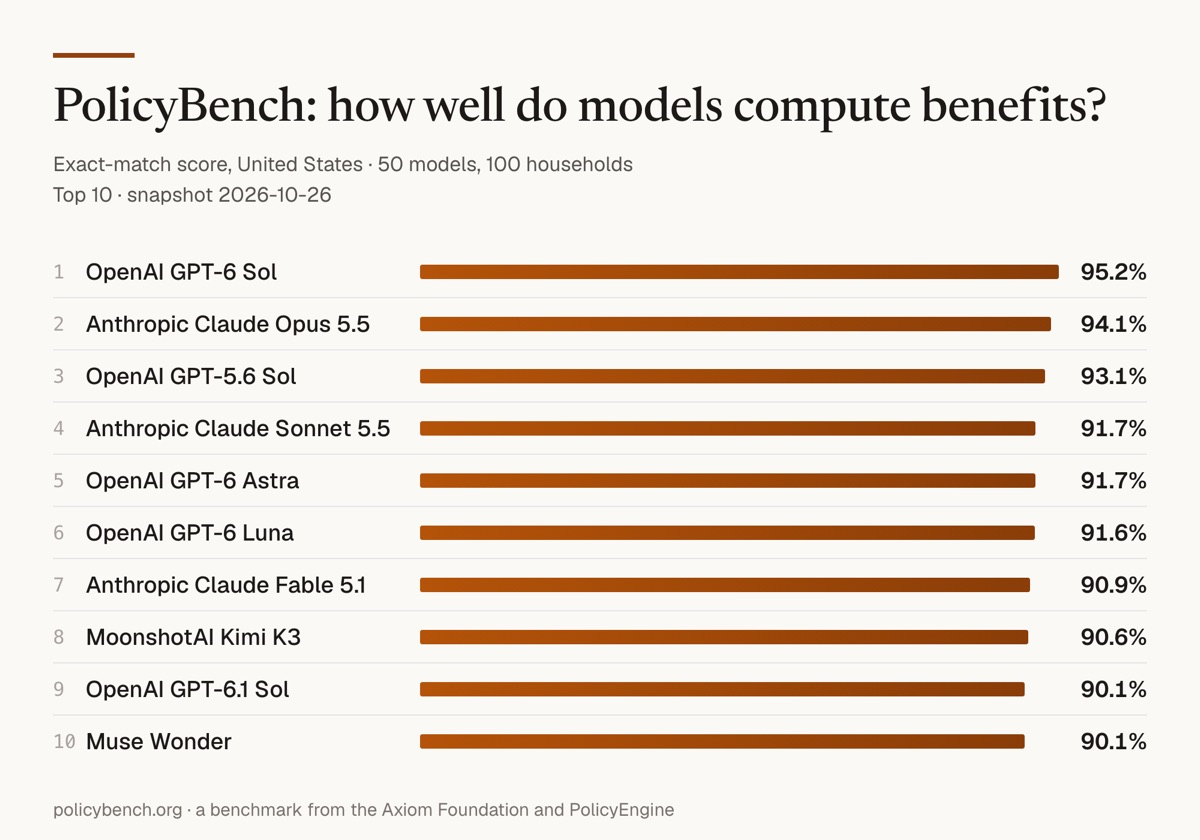
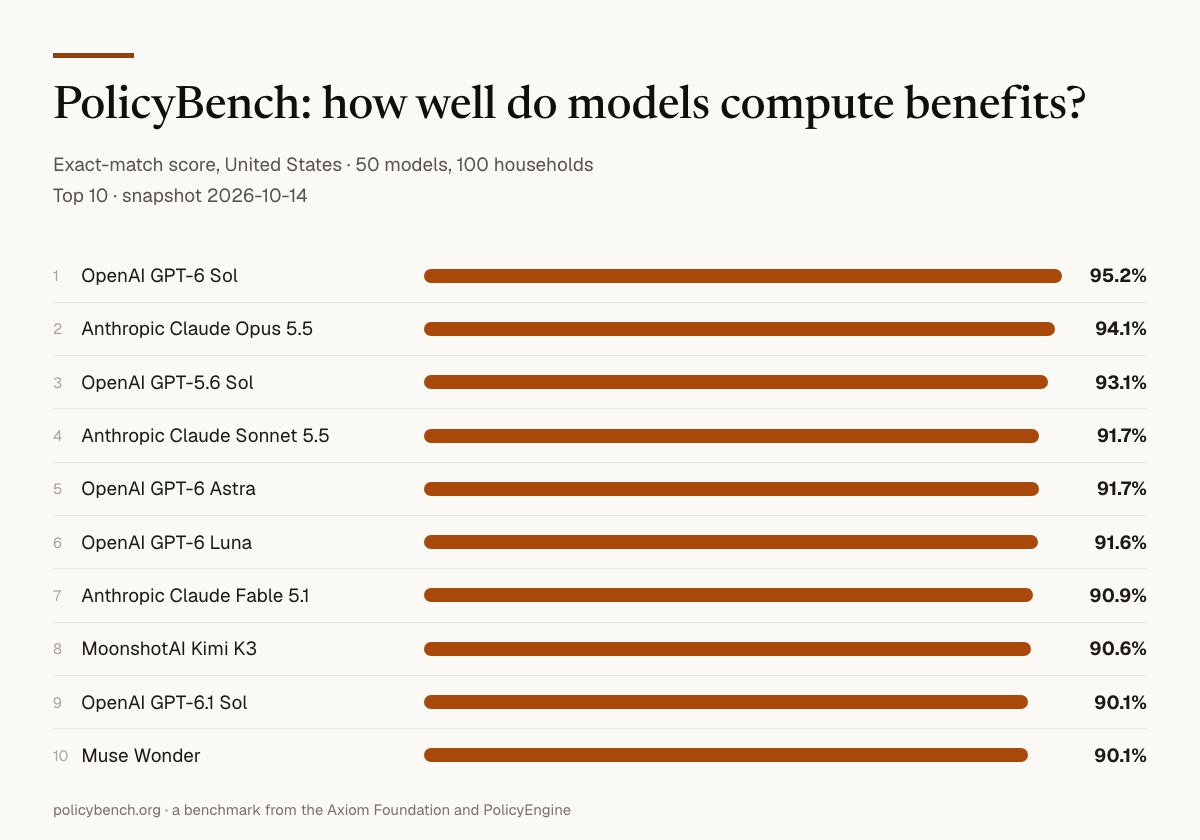
Nº 002: add Upcoming with Max's APPAM panel (#13)
* Add Upcoming: Max's APPAM panel in Boston

Confirmed in APPAM's own online program: "State Policy Impacts on Family
Resources: Tools to Improve Policy Analysis," Thursday 5 November,
10:15-11:45, Marriott Copley Place. It is his only session in the program.

* Add Ariel's Cornell Tech panel and Max's JRC Seville session

Recent: the Cornell Tech PiTech Showcase, 23 October, where Ariel moderated
"Putting Tech into Practice at NYC Agencies." Sourced from Cornell's public
showcase page; the panelists' agencies are named, the individuals are not.

Upcoming: "Building blocks for future economic analysis and modelling: the
role of AI," JRC, Seville, 23-24 November. Max is listed in the "Agents and
economic modelling" session, Monday 11:00-12:30 CET.

* Add the graph preview as a second product item

Checked against the live app: opening a rule draws its graph immediately,
with a built-from / used-by panel, entity, unit, period, verification status
and citation, and links out to the encoding, the formula and the law.

* Point the feature CTA at the primary announcement

"Read the announcement" now opens Center for Civic Futures' 22 October post,
which is the actual cohort announcement; PBIF's own site has not published
one. The press-release card above it still links our blog post, so both
destinations stay one click away.

* Close the Aspen bullet on the shared foundation

Name the point the session was making: cited, executable rules are one
[…]

diff --git a/editions/2026-10-29.html b/editions/2026-10-29.html
@@ -67,7 +67,7 @@
                             <table cellpadding="0" cellspacing="0" style="margin: 4px 0 24px 0;">
                                 <tr>
                                     <td align="center" style="background-color: #b45309; border-radius: 6px;">
-                                        <a href="https://axiom.org/blog/pbif-spring-2026-cohort" style="display: inline-block; padding: 14px 28px; font-family: 'Geist', -apple-system, BlinkMacSystemFont, 'Segoe UI', sans-serif; font-size: 15px; font-weight: 600; letter-spacing: 0.01em; color: #ffffff; text-decoration: none;">
+                                        <a href="https://www.centerforcivicfutures.org/resources/center-for-civic-futures-awards-11-million-to-tackle-the-toughest-barriers-in-safety-net-delivery-with-ai" style="display: inline-block; padding: 14px 28px; font-family: 'Geist', -apple-system, BlinkMacSystemFont, 'Segoe UI', sans-serif; font-size: 15px; font-weight: 600; letter-spacing: 0.01em; color: #ffffff; text-decoration: none;">
                                             Read the announcement &rarr;
                                         </a>
                                     </td>
@@ -84,9 +84,9 @@
                                             Benchmark snapshot
                                         </div>
                                         <div style="font-size: 17px; font-weight: 700; color: #1c1917; line-height: 1.4; letter-spacing: -0.01em; margin-bottom: 12px;"><a href="https://policybench.org/" style="color: #1c1917; text-decoration: none;">GPT-6 Sol takes the lead</a></div>
-                                        <a href="https://policybench.org/" style="text-decoration: none;"><img src="https://raw.githubusercontent.com/TheAxiomFoundation/newsletters/main/assets/images/2026-10-29-policybench-leaderboard.jpg" alt="PolicyBench leaderboard, top 10 of 50 models by exact-match score on United States household tax and benefit calculations, snapshot October 26 2026. OpenAI GPT-6 Sol leads at 95.2 percent, Claude Opus 5.5 94.1, GPT-5.6 Sol 93.1, down to Muse Wonder at 90.1 percent." width="512" style="width: 100%; max-width: 512px; height: auto; display: block; border-radius: 4px; border: 1px solid #e7e5e4;"></a>
+                                        <a href="https://policybench.org/" style="text-decoration: none;"><img src="https://raw.githubusercontent.com/TheAxiomFoundation/newsletters/main/assets/images/2026-10-29-policybench-leaderboard.jpg" alt="PolicyBench leaderboard, top 10 of 50 models by exact-match score on United States household tax and benefit calculations, snapshot October 14 2026. OpenAI GPT-6 Sol leads at 95.2 percent, Claude Opus 5.5 94.1, GPT-5.6 Sol 93.1, down to Muse Wonder at 90.1 percent." width="512" style="width: 100%; max-width: 512px; height: auto; display: block; border-radius: 4px; border: 1px solid #e7e5e4;"></a>
                                         <div style="font-size: 14px; line-height: 1.6; color: #44403c; padding-top: 12px;">
-                                            PolicyBench is an open benchmark from the Axiom Foundation and PolicyEngine, scoring 50 models on United States household tax and benefit calculations. GPT-6 Sol leads at 95.2 percent of sampled households answered to within a dollar, and every model in the top ten now clears 90 percent, where a month ago only the leader cleared 88. The board also turned on itself this autumn: we <a href="https://policybench.org/notes/2026-09-22-reference-audit" style="color: #b45309; text-decoration: none;">audited the answer key against the law</a>, using the models&rsquo; misses to find bugs in our own reference engine. <a href="https://policybench.org/" style="color: #b45309; text-decoration: none;">See the full board &rarr;</a>
+                                            PolicyBench is an open benchmark from the Axiom Foundation and PolicyEngine, scoring 50 models on United States household tax and benefit calculations. GPT-6 Sol leads at 95.2 percent of sampled households answered to within a dollar, and every model in the top ten now clears 90 percent, where a month ago only the leader cleared 88. We also <a href="https://policybench.org/notes/2026-09-22-reference-audit" style="color: #b45309; text-decoration: none;">audited the answer key against the law</a> this autumn, using the models&rsquo; misses to find bugs in our own reference engine. <a href="https://policybench.org/" style="color: #b45309; text-decoration: none;">See the full board &rarr;</a>
                                         </div>
                                     </td>
                                 </tr>
@@ -103,8 +103,13 @@
                                 </tr>
                             </table>
                             <p style="margin: 0 0 18px 0; font-size: 15px; line-height: 1.65; color: #44403c;">
-                                <a href="https://axiom.org/app" style="color: #b45309; text-decoration: none;">The Axiom App</a> now opens on a map, with every state shaded by how many provisions we have encoded there and a chip above it for federal law. The jurisdictions too small to shade get their own labels, so Washington, D.C. and Rhode Island are as easy to reach as Texas, and the shading tells you where the corpus runs deep before you search.
+                                <a href="https://axiom.org/app" style="color: #b45309; text-decoration: none;">The Axiom App</a> now opens on a map, with every state shaded by how many provisions we have encoded there and a button above it for federal law. We label the jurisdictions too small to shade, so Washington, D.C. and Rhode Island are as easy to reach as Texas.
                             </p>
+                            <h3 style="margin: 6px 0 12px 0; font-size: 17px; font-weight: 700; color: #1c1917; line-height: 1.4; letter-spacing: -0.01em;">A graph for every policy</h3>
+                            <p style="margin: 0 0 18px 0; font-size: 15px; line-height: 1.65; color: #44403c;">
+                                Open any rule and the app now draws its graph: the values the rule is built from, and what uses it in turn. A panel beside it gives the unit, the period and the citation the rule came from. Every node links out to its encoding, its formula and the text of the law.
+                            </p>
+
                             
                             <table width="100%" cellpadding="0" cellspacing="0" style="margin: 4px 0 18px 0; background-color: #f5f2ec; border: 1px solid #e7e5e4; border-left: 3px solid #b45309; border-radius: 4px;">
                                 <tr><td style="padding: 18px 20px;">
@@ -116,12 +121,19 @@
                             <h2 style="margin: 34px 0 12px 0; font-size: 19px; font-weight: 700; color: #1c1917; letter-spacing: -0.015em;"><span style="display: inline-block; font-family: 'Geist Mono','SFMono-Regular',Menlo,Consolas,monospace; font-size: 10px; letter-spacing: 0.08em; text-transform: uppercase; color: #b45309; border: 1px solid #d9b28a; border-radius: 3px; padding: 3px 7px; margin-bottom: 10px;">events</span><br>Presentations and events</h2>
                             <div style="font-family: 'Geist Mono','SFMono-Regular',Menlo,Consolas,monospace; font-size: 10px; letter-spacing: 0.09em; text-transform: uppercase; color: #57534e; margin: 22px 0 10px 0;">Recent</div>
                             <table width="100%" cellpadding="0" cellspacing="0" style="margin: 4px 0 12px 0;">
-                                <tr><td valign="top" style="width: 16px; padding: 0 0 12px 0; color: #b45309; font-size: 15px; line-height: 1.65;">&bull;</td><td style="padding: 0 0 12px 0; font-size: 15px; line-height: 1.65; color: #44403c;"><strong style="color: #1c1917;"><a href="https://www.racguild.org/events" style="color: #b45309; text-decoration: none;">Rules as Code Guild Townhall #26</a>, October 7. We demoed Axiom.</strong> The Guild runs these monthly for people working on rules as code across disciplines. Watch the <a href="https://www.youtube.com/watch?v=wQBg_jzW_rs" style="color: #b45309; text-decoration: none;">recording</a> and read the <a href="https://axiom.org/slides/rac-guild-2026" style="color: #b45309; text-decoration: none;">slides</a>.</td></tr>
+                                <tr><td valign="top" style="width: 16px; padding: 0 0 12px 0; color: #b45309; font-size: 15px; line-height: 1.65;">&bull;</td><td style="padding: 0 0 12px 0; font-size: 15px; line-height: 1.65; color: #44403c;"><strong style="color: #1c1917;"><a href="https://www.racguild.org/events" style="color: #b45309; text-decoration: none;">Rules as Code Guild Townhall #26</a>, October 7.</strong> We demoed the Axiom App. The Guild meets monthly and draws people working on rules as code across disciplines and around the world. Watch the <a href="https://www.youtube.com/watch?v=wQBg_jzW_rs" style="color: #b45309; text-decoration: none;">recording</a> and read the <a href="https://axiom.org/slides/rac-guild-2026" style="color: #b45309; text-decoration: none;">slides</a>.</td></tr>
                                 
                                 <tr><td valign="top" style="width: 16px; padding: 0 0 12px 0; color: #b45309; font-size: 15px; line-height: 1.65;">&bull;</td><td style="padding: 0 0 12px 0; font-size: 15px; line-height: 1.65; color: #44403c;"><strong style="color: #1c1917;"><a href="https://www.navapbc.com/events/open-source-summit-ai-futures" style="color: #b45309; text-decoration: none;">Open Source Summit: AI Futures</a>, Baltimore, October 14.</strong> Max gave a lightning talk on how accurate AI is at benefits calculations, at Nava&rsquo;s day of demos, lightning talks and panels in the Baltimore Museum of Art.</td></tr>
                                 <tr><td valign="top" style="width: 16px; padding: 0 0 12px 0; color: #b45309; font-size: 15px; line-height: 1.65;">&bull;</td><td style="padding: 0 0 12px 0; font-size: 15px; line-height: 1.65; color: #44403c;"><strong style="color: #1c1917;"><a href="https://innovate-us.org/benefits-access-and-delivery-using-ai-to-expand-reach-simply-systems-and-improve-integrity" style="color: #b45309; text-decoration: none;">Benefits Access and Delivery</a>, InnovateUS, October 22.</strong> Ariel joined Dr. Alister Martin, Commissioner of the New York City Department of Health and Mental Hygiene, for the third session of the AI in Public Health series. 187 public professionals attended, and both the <a href="https://innovate-us.org/benefits-access-and-delivery-using-ai-to-expand-reach-simply-systems-and-improve-integrity" style="color: #b45309; text-decoration: none;">recording</a> and our <a href="https://axiom.org/slides/innovateus-2026-10" style="color: #b45309; text-decoration: none;">slides</a> are posted.</td></tr>
+                                <tr><td valign="top" style="width: 16px; padding: 0 0 12px 0; color: #b45309; font-size: 15px; line-height: 1.65;">&bull;</td><td style="padding: 0 0 12px 0; font-size: 15px; line-height: 1.65; color: #44403c;"><strong style="color: #1c1917;"><a href="https://www.pi.tech.cornell.edu/2026-pitech-showcase" style="color: #b45309; text-decoration: none;">Cornell Tech PiTech Showcase</a>, New York, October 23.</strong> Ariel moderated &ldquo;Putting Tech into Practice at NYC Agencies,&rdquo; a panel with leaders from the city&rsquo;s health department and its Office of Technology and Innovation. The showcase presents the work of Cornell Tech&rsquo;s Public Interest Technology fellows, who spend their placements inside public agencies and nonprofits.</td></tr>
 
-                                <tr><td valign="top" style="width: 16px; padding: 0 0 12px 0; color: #b45309; font-size: 15px; line-height: 1.65;">&bull;</td><td style="padding: 0 0 12px 0; font-size: 15px; line-height: 1.65; color: #44403c;"><strong style="color: #1c1917;"><a href="https://www.aspeninstitute.org/programs/financial-security-program/our-priorities/financial-stability/the-aspen-institute-state-benefits-leadership-cohort/" style="color: #b45309; text-decoration: none;">Aspen Institute State Benefits Leadership Cohort</a>, Phoenix, October 26.</strong> Ariel and Max ran the cohort&rsquo;s evening session for state benefits executives. Participants asked a chatbot real benefits questions as a resident or a caseworker and rated the answers themselves, saw on PolicyBench how the models hold up across a hundred households, and then worked in small groups on what their own teams would do with rules they can see and test.</td></tr>
+                                <tr><td valign="top" style="width: 16px; padding: 0 0 12px 0; color: #b45309; font-size: 15px; line-height: 1.65;">&bull;</td><td style="padding: 0 0 12px 0; font-size: 15px; line-height: 1.65; color: #44403c;"><strong style="color: #1c1917;"><a href="https://www.aspeninstitute.org/programs/financial-security-program/our-priorities/financial-stability/the-aspen-institute-state-benefits-leadership-cohort/" style="color: #b45309; text-decoration: none;">Aspen Institute State Benefits Leadership Cohort</a>, Phoenix, October 26.</strong> Ariel and Max ran the cohort&rsquo;s evening session for state benefits executives. Participants asked a chatbot real benefits questions as a resident or a caseworker and rated the answers themselves, then saw on PolicyBench how the models hold up across a hundred households. They shared where their own agencies stand on adopting AI, and worked through what open, citable rules could do inside them. A state can ground the AI systems it is adopting, the eligibility systems it already runs, and the navigation tools families and caseworkers reach for on one set of cited, executable rules.</td></tr>
+                                </table>
+
+                            <div style="font-family: 'Geist Mono','SFMono-Regular',Menlo,Consolas,monospace; font-size: 10px; letter-spacing: 0.09em; text-transform: uppercase; color: #57534e; margin: 22px 0 10px 0;">Upcoming</div>
+                            <table width="100%" cellpadding="0" cellspacing="0" style="margin: 4px 0 12px 0;">
+                                <tr><td valign="top" style="width: 16px; padding: 0 0 12px 0; color: #b45309; font-size: 15px; line-height: 1.65;">&bull;</td><td style="padding: 0 0 12px 0; font-size: 15px; line-height: 1.65; color: #44403c;"><strong style="color: #1c1917;"><a href="https://www.appam.org/events/2026appam/" style="color: #b45309; text-decoration: none;">APPAM Fall Research Conference</a>, Boston, November 5&ndash;7.</strong> Max speaks on the panel &ldquo;State Policy Impacts on Family Resources: Tools to Improve Policy Analysis&rdquo; on Thursday the 5th at 10:15 in the morning.</td></tr>
+                                <tr><td valign="top" style="width: 16px; padding: 0 0 12px 0; color: #b45309; font-size: 15px; line-height: 1.65;">&bull;</td><td style="padding: 0 0 12px 0; font-size: 15px; line-height: 1.65; color: #44403c;"><strong style="color: #1c1917;"><a href="https://joint-research-centre.ec.europa.eu/events/building-blocks-future-economic-analysis-and-modelling-role-ai-2026-11-23_en" style="color: #b45309; text-decoration: none;">Building blocks for future economic analysis and modelling: the role of AI</a>, Seville, November 23&ndash;24.</strong> The European Commission&rsquo;s Joint Research Centre hosts the two days. Max speaks in the session on agents and economic modelling on the Monday morning.</td></tr>
                                 </table>
 
                             <h2 style="margin: 34px 0 12px 0; font-size: 19px; font-weight: 700; color: #1c1917; letter-spacing: -0.015em;"><span style="display: inline-block; font-family: 'Geist Mono','SFMono-Regular',Menlo,Consolas,monospace; font-size: 10px; letter-spacing: 0.08em; text-transform: uppercase; color: #b45309; border: 1px solid #d9b28a; border-radius: 3px; padding: 3px 7px; margin-bottom: 10px;">reading</span><br>What we&rsquo;re reading</h2>

diff --git a/scripts/policybench-card/card.html b/scripts/policybench-card/card.html
@@ -1,0 +1,31 @@
+<!doctype html>
+<html><head><meta charset="utf-8">
+<link href="https://fonts.googleapis.com/css2?family=Newsreader:opsz,wght@6..72,400;6..72,500&family=Geist:wght@400;500;600;700&display=swap" rel="stylesheet">
+<style>
+  html,body{margin:0;padding:0}
+  body{width:1200px;height:840px;background:#faf9f5;
+       font-family:'Geist','Helvetica Neue',Helvetica,Arial,sans-serif;
+       -webkit-font-smoothing:antialiased}
+  .pad{padding:53px 53px 0 53px}
+  .rule{width:81px;height:5px;background:#914110}
+  h1{font-family:'Newsreader',Georgia,serif;font-weight:500;font-size:46px;line-height:1.0;
+     color:#100f0b;margin:26px 0 0 0;letter-spacing:-0.005em}
+  .sub{font-size:19px;color:#57534e;margin-top:20px;line-height:1.62}
+  table{width:1094px;border-collapse:collapse;margin-top:38px}
+  td{padding:0;height:52.3px;vertical-align:middle;border-bottom:1px solid #e7e6e4}
+  tr:last-child td{border-bottom:none}
+  .rank{width:28px;font-size:15px;color:#a8a29e;text-align:left}
+  .name{width:339px;font-size:19px;color:#1c1917;white-space:nowrap}
+  .track{width:638px;padding-left:0}
+  .bar{height:14px;background:#a8490b;border-radius:7px}
+  .score{width:76px;font-size:19px;font-weight:700;color:#1c1917;text-align:right}
+  .foot{position:absolute;top:800px;left:53px;font-size:15px;color:#78716c}
+</style></head><body>
+<div class="pad">
+  <div class="rule"></div>
+  <h1>__TITLE__</h1>
+  <div class="sub">__SUB1__<br>__SUB2__</div>
+  <table>__ROWS__</table>
+</div>
+<div class="foot">__FOOT__</div>
+</body></html>

diff --git a/scripts/policybench-card/build.py b/scripts/policybench-card/build.py
@@ -1,0 +1,44 @@
+#!/usr/bin/env python3
+"""Render the PolicyBench top-10 card used in the newsletter.
+
+The snapshot date must be the one PolicyBench itself publishes (the
+"SNAPSHOT YYYY-MM-DD" line on policybench.org), not the day we drew the
+chart. Bars are proportional to the leader's score.
+"""
+import json, pathlib, subprocess, sys
+
+HERE = pathlib.Path(__file__).parent
+CHROME = "/Applications/Google Chrome.app/Contents/MacOS/Google Chrome"
+TRACK = 638  # px, width of the leader's bar
+
+def render(spec, out_png):
+    rows = spec["rows"]
+    top = max(r["score"] for r in rows)
+    html = (HERE / "card.html").read_text(encoding="utf-8")
+    trs = []
+    for i, r in enumerate(rows, 1):
+        w = round(r["score"] / top * TRACK)
+        trs.append(
+            f'<tr><td class="rank">{i}</td>'
+            f'<td class="name">{r["name"]}</td>'
+            f'<td class="track"><div class="bar" style="width:{w}px"></div></td>'
+            f'<td class="score">{r["score"]:.1f}%</td></tr>'
+        )
+    html = (html.replace("__TITLE__", spec["title"])
+                .replace("__SUB1__", spec["sub1"])
+                .replace("__SUB2__", spec["sub2"])
+                .replace("__FOOT__", spec["foot"])
+                .replace("__ROWS__", "".join(trs)))
+    tmp = HERE / "_render.html"
+    tmp.write_text(html, encoding="utf-8")
+    subprocess.run([CHROME, "--headless", "--disable-gpu", "--hide-scrollbars",
+                    "--force-device-scale-factor=1", "--window-size=1200,840",
+                    f"--screenshot={out_png}", "--default-background-color=FAF9F5FF",
+                    "--virtual-time-budget=9000", tmp.as_uri()],
+                   check=True, capture_output=True)
+    tmp.unlink()
+
+if __name__ == "__main__":
+    spec = json.loads(pathlib.Path(sys.argv[1]).read_text(encoding="utf-8"))
+    render(spec, sys.argv[2])
+    print("wrote", sys.argv[2])
